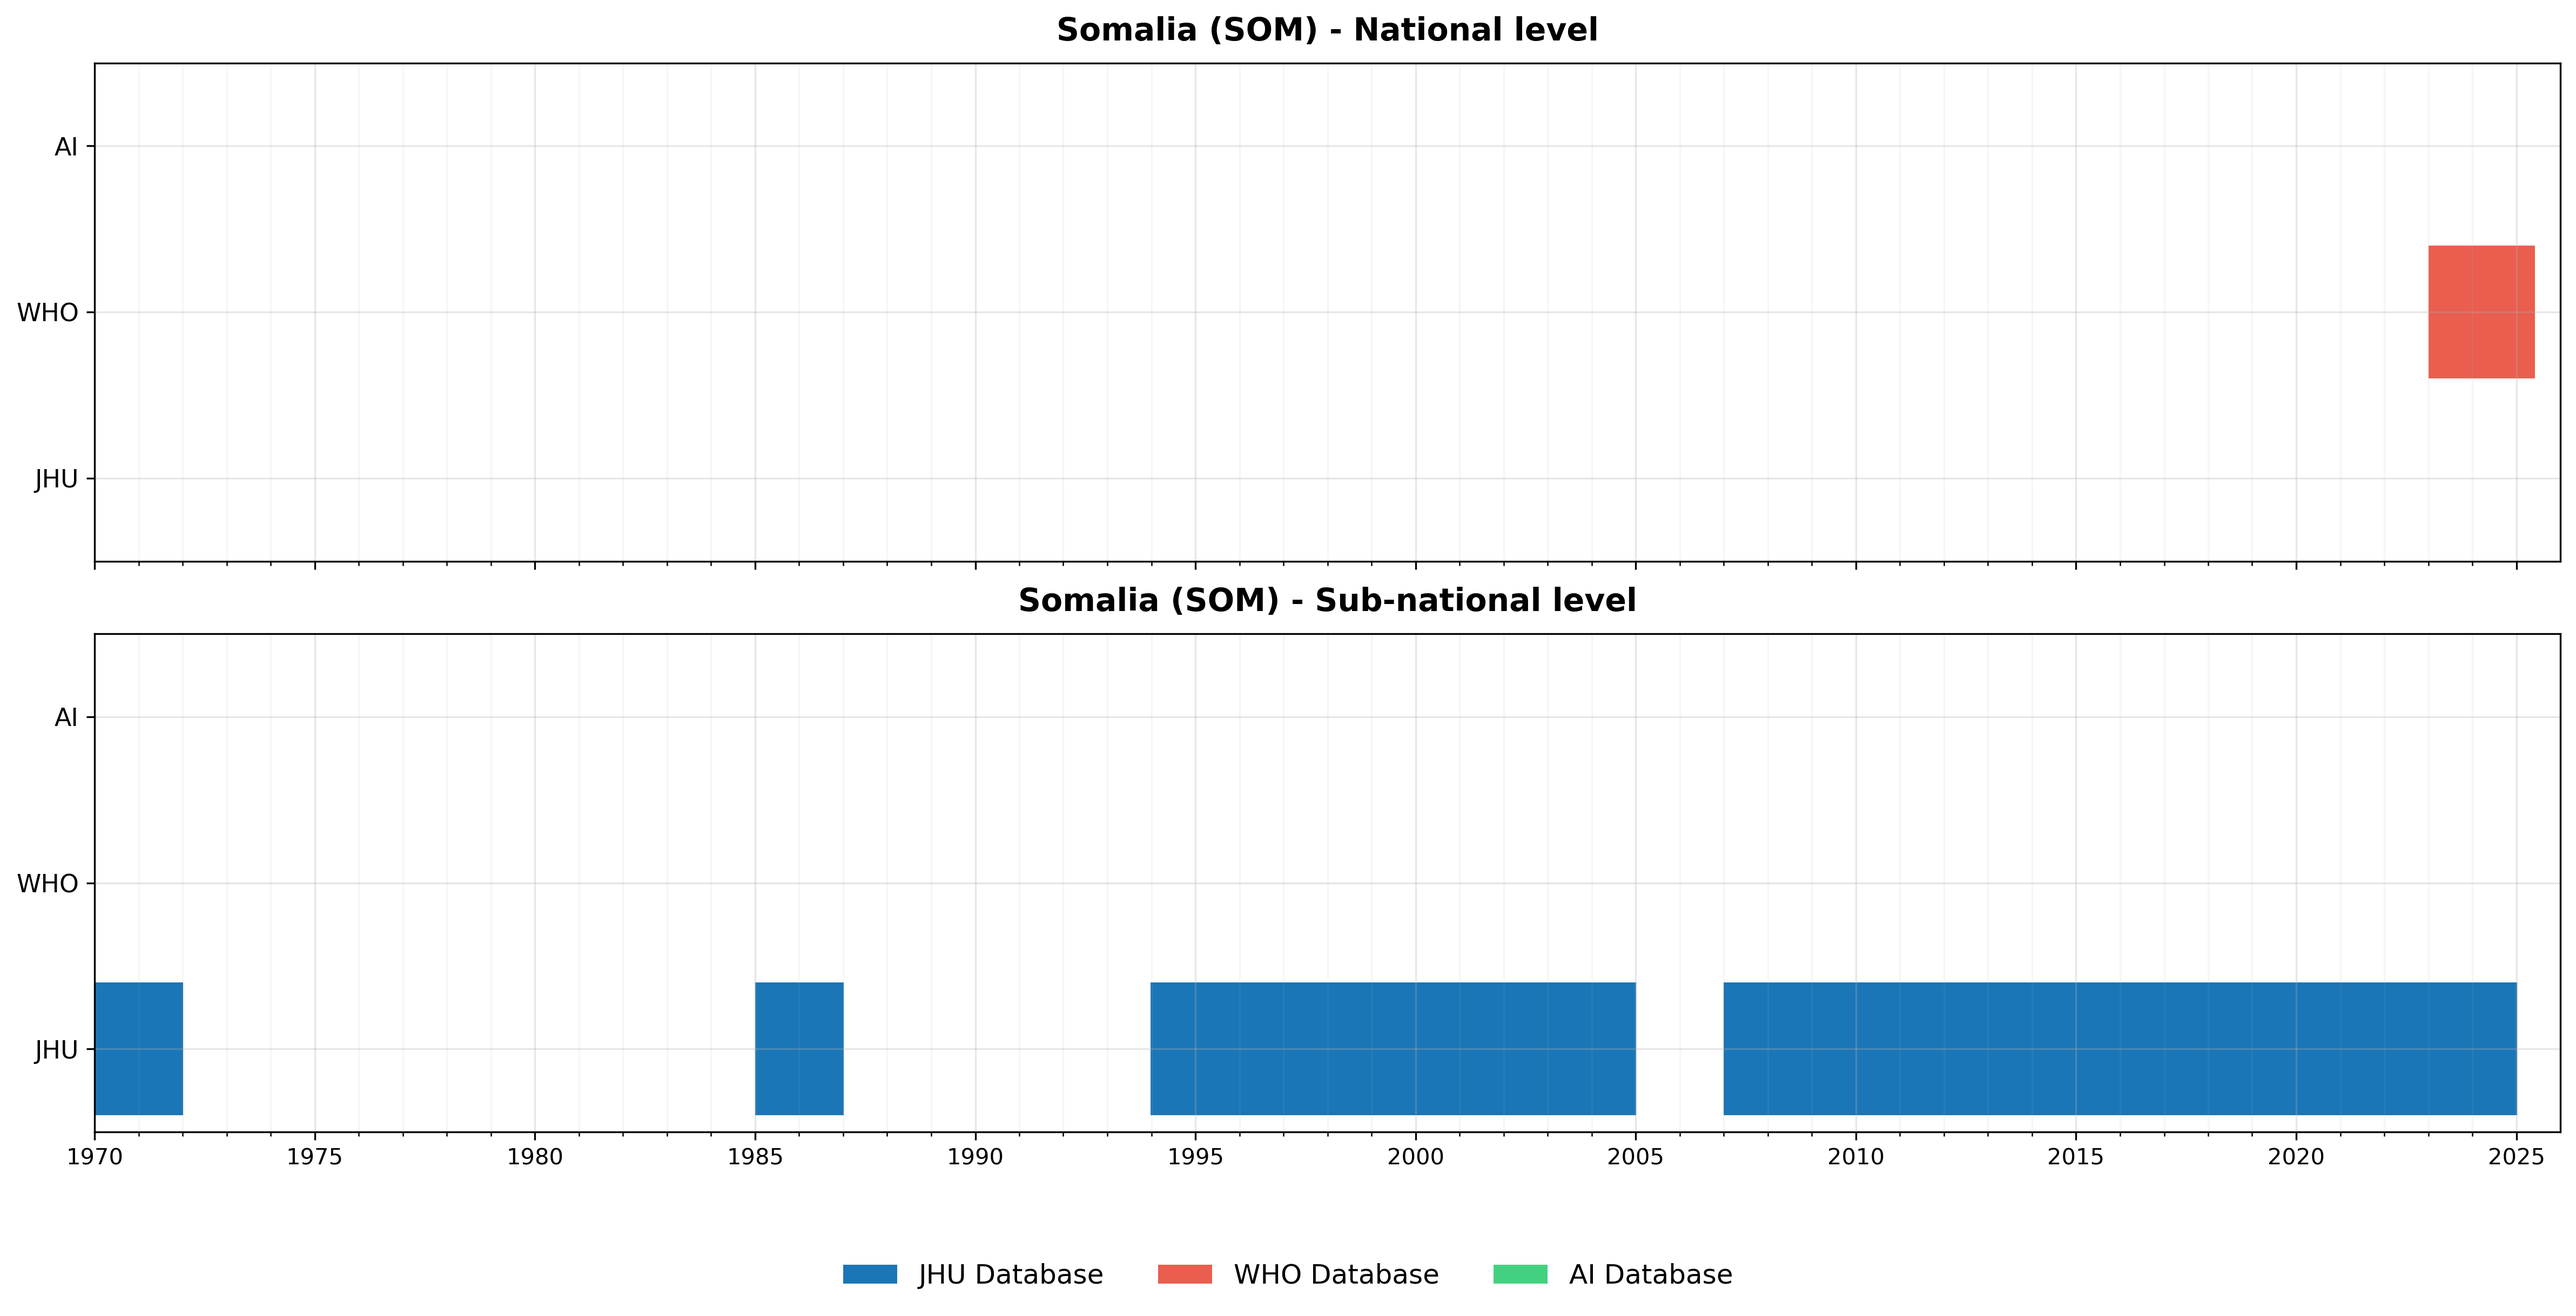
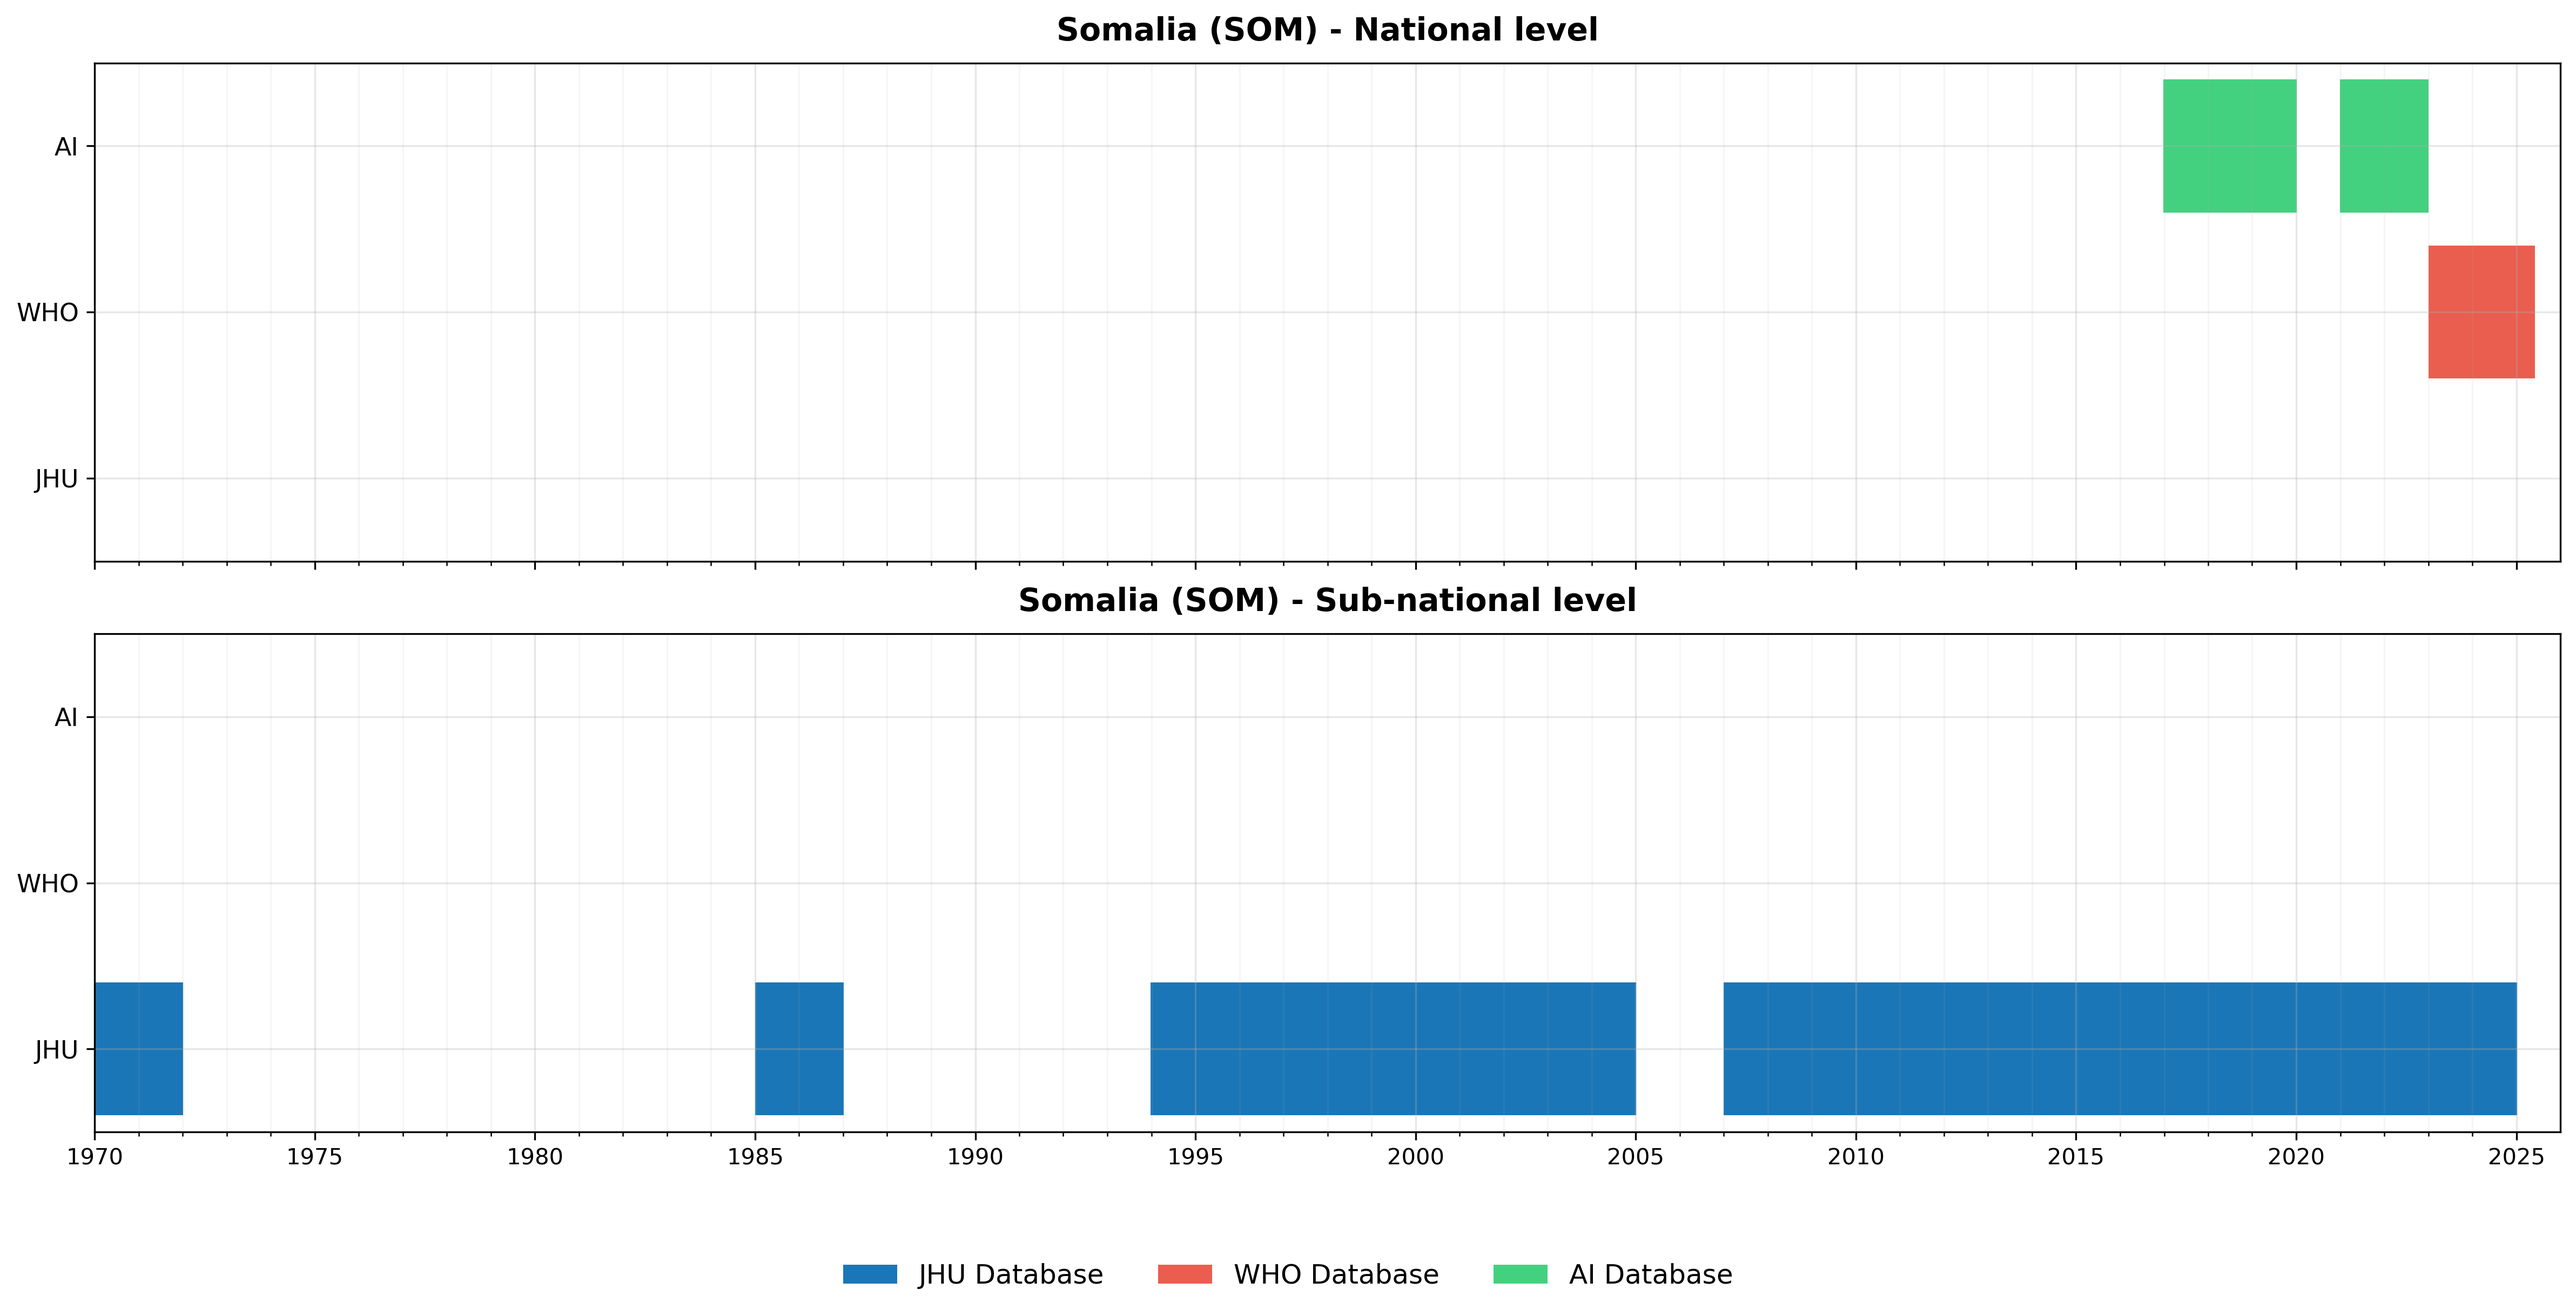
Auto-update dashboard data - 2025-08-07 12:51:31 - Generated with Claude Code

Changed region(s): [[0.8123, 0.0623, 0.9685, 0.187]]

diff --git a/dashboard/dashboard.html b/dashboard/dashboard.html
@@ -2659,7 +2659,7 @@ Nigeria,NGA,NOT_STARTED,,0,0,,,0,0,
 Rwanda,RWA,NOT_STARTED,,0,0,,,0,0,
 Senegal,SEN,NOT_STARTED,,0,0,,,0,0,
 Sierra Leone,SLE,NOT_STARTED,,0,0,,,0,0,
-Somalia,SOM,PENDING,2025-08-07 12:48:11,0,0,,,0,0,
+Somalia,SOM,PENDING,2025-08-07 12:49:25,4,0,,,0,0,
 South Sudan,SSD,NOT_STARTED,,0,0,,,0,0,
 Eswatini,SWZ,NOT_STARTED,,0,0,,,0,0,
 Chad,TCD,NOT_STARTED,,0,0,,,0,0,
@@ -2876,7 +2876,13 @@ Zimbabwe,ZWE,NOT_STARTED,,0,0,,,0,0,`;
 63,AFR::AGO::Huambo,2007-01-01,2007-03-31,40,500,,8.0,2007-04-01,30,ACT Alert Angola 1/2007 Floods in Angola,0.85,"Source states: 'Over 500 cases diagnosed in Huambo with 40 deaths' - interpreted as 500 sCh cases, 40 deaths",AI
 64,AFR::AGO,2008-01-01,2008-12-31,0,0,,0.0,2009-01-01,31,WHO AFRO Angola health surveillance 2008,0.9,"Post-conflict surveillance indicates no major cholera outbreaks reported in 2008 - validated zero-transmission period",AI
 65,AFR::AGO,2010-01-01,2010-12-31,0,0,,0.0,2011-01-01,31,WHO AFRO Angola health surveillance 2010,0.9,"Dande HDSS surveillance and WHO data indicate no cholera outbreaks in 2010 - validated zero-transmission period",AI`,
-            'SOM': `Index,Location,TL,TR,deaths,sCh,cCh,CFR,reporting_date,source_index,source,confidence_weight,processing_notes,source_database`,
+            'SOM': `Index,Location,TL,TR,deaths,sCh,cCh,CFR,reporting_date,source_index,source,confidence_weight,processing_notes,source_database
+1,AFR::SOM,2022-01-01,2022-07-10,37,7796,,0.5,2022-07-15,1,WHO Disease Outbreak News 2022,1.0,"Source states: 'Between 1 January to 10 July 2022, a cumulative number of 7,796 cases of cholera including 37 associated deaths (case fatality ratio 0.5%) have been reported from 25 drought-affected districts' - interpreted as 7796 sCh cases",AI
+2,AFR::SOM,2021-01-01,2021-12-31,39,6205,,0.63,2022-07-15,1,WHO Disease Outbreak News 2022,1.0,"Source states: 'In 2021, the same drought-affected districts reported 6,205 acute watery diarrhea/suspected cholera cases with 39 deaths (CFR: 0.63%)' - interpreted as 6205 sCh cases",AI
+3,AFR::SOM,2017-01-01,2017-12-31,1163,78701,,1.48,2023-09-15,2,WHO EMRO Journal 2023,1.0,"Source states: 'In 2017, a total of 78,701 cholera cases and 1,163 related deaths were reported (case fatality rate 1.48%)' - interpreted as 78701 sCh cases",AI
+4,AFR::SOM,2018-01-01,2018-12-31,45,6448,,0.70,2023-09-15,2,WHO EMRO Journal 2023,1.0,"Source states: 'In 2018, 6,448 cholera cases and 45 deaths were reported (case fatality rate 0.70%)' - interpreted as 6448 sCh cases",AI
+5,AFR::SOM,2019-01-01,2019-12-31,4,3089,,0.13,2023-09-15,2,WHO EMRO Journal 2023,1.0,"Source states: 'In 2019, 3,089 cases and 4 deaths were reported in Somalia (case fatality rate 0.13%)' - interpreted as 3089 sCh cases",AI
+6,AFR::SOM,2022-01-01,2022-12-31,54,15600,,0.3,2022-12-31,3,WHO EMRO News 2022,1.0,"Source states: 'Over 15,600 suspected cholera cases' and 'highest number in 5 years' - interpreted as 15600 sCh cases with estimated CFR based on context",AI`,
             'MWI': `Index,Location,TL,TR,deaths,sCh,cCh,CFR,reporting_date,source_index,source,confidence_weight,processing_notes,source_database
 1,AFR::MWI,1990-08-23,1990-12-15,68,1931,,3.5,1990-12-15,1,Epidemic cholera among refugees in Malawi Africa - PubMed,0.9,"Source states: 'Between 23 August and 15 December 1990 an epidemic of cholera affected Mozambican refugees in Malawi causing 1931 cases (attack rate = 2.4%). There were 68 deaths among these patients, for a case-fatality rate of 3.5%.' - interpreted as 1931 sCh cases",AI
 2,AFR::MWI,1998-01-01,1999-12-31,860,25000,,3.4,1999-12-31,2,Fight against cholera outbreak efforts and challenges in Malawi - PMC,0.9,"Source states: 'The highest numbers of cases and deaths were reported in 1998/99 (25,000 cases, 860 deaths, CFR 3.4%)' - interpreted as 25000 sCh cases",AI
